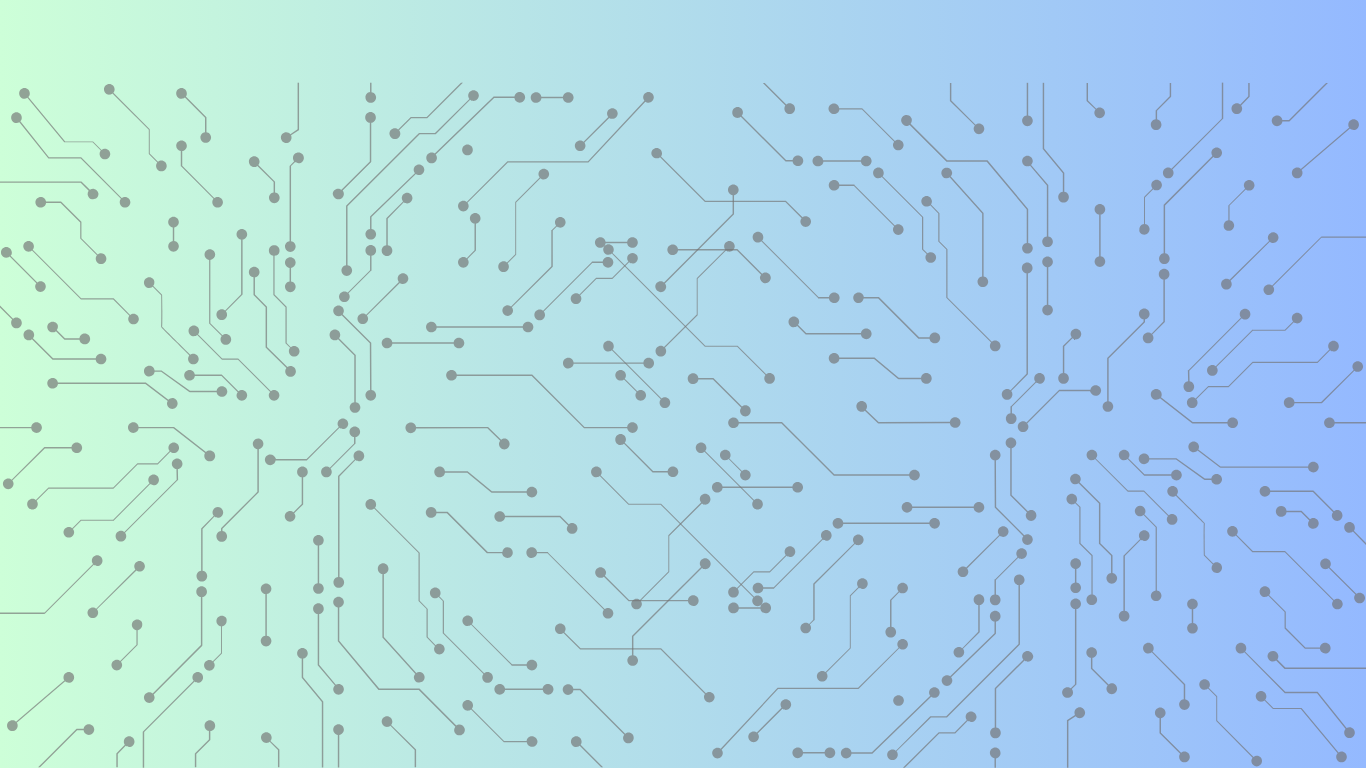
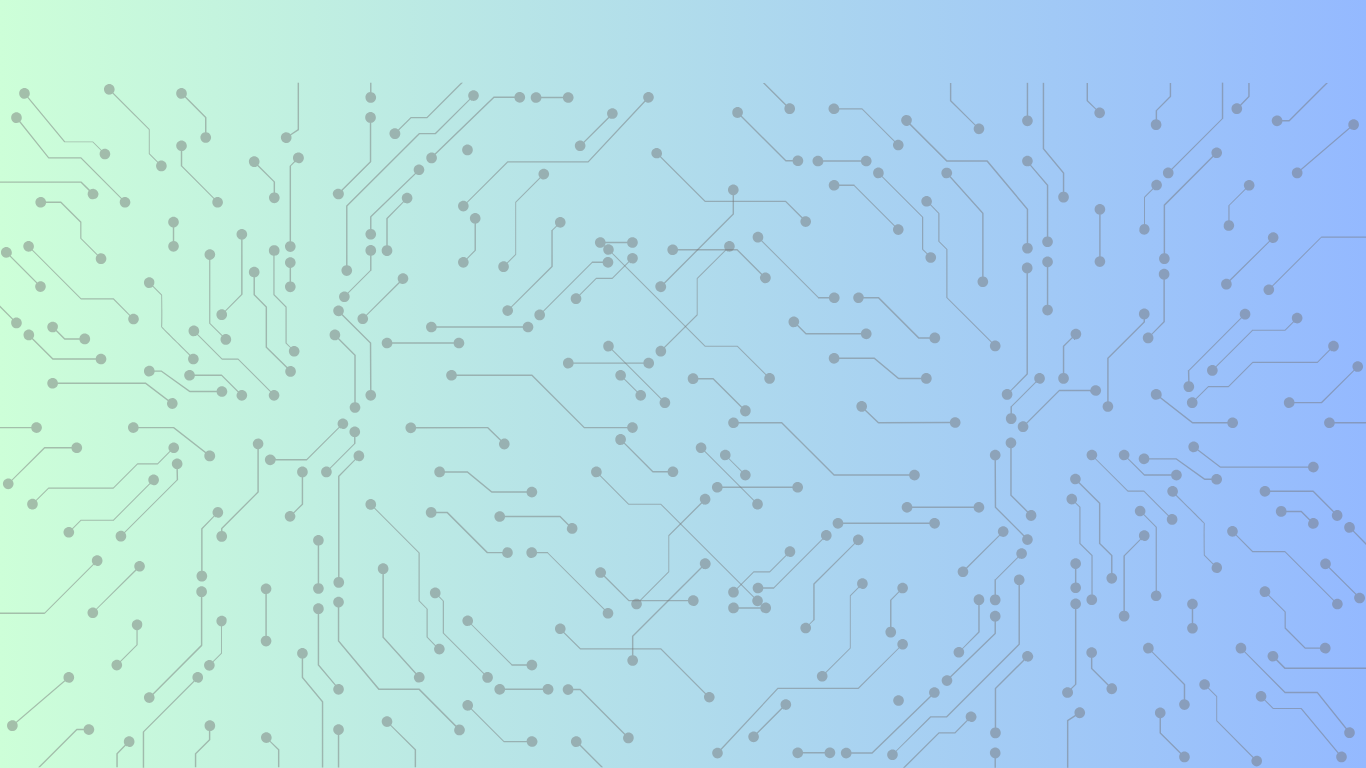
new background

diff --git a/src/app/page.tsx b/src/app/page.tsx
@@ -7,8 +7,9 @@ import missionpage from '@/app/Images/missionpage.png'
 
 function MyApp() {
   return (
-    <div className="container">
-      <div style={{ transform: 'translate(320px,100px)' }}>
+    <div className="container z-index-1000">
+      <div style={{ transform: 'translate(60px, 90px)' }}><h2 className="h2">See our creations and what inspires us</h2></div>
+      <div style={{ transform: 'translate(530px,100px)' }}>
         <Image src={missionpage} alt="Mission Page" width={500} height={300} />
       </div>
       <div style={{ display: 'flex', flexWrap: 'wrap', alignItems: 'center', justifyContent: 'center', transform: "translate(15px, 160px)" }}>
@@ -74,6 +75,11 @@ function MyApp() {
             <circle cx="351.5" cy="160.5" r="21.5"></circle>
           </svg>
         </a>
+      </div>
+
+      <div style={{ transform: 'translate(-250px, -275px)' }}>
+        <script src="https://static.elfsight.com/platform/platform.js" async></script>
+        <div className="elfsight-app-d1fc404b-4dbb-496c-a420-27e007bed2f8" data-elfsight-app-lazy></div>
       </div>
     </div>
   );

diff --git a/src/app/styles/globals.css b/src/app/styles/globals.css
@@ -12,7 +12,7 @@
 
 .h2 {
   font-family: 'Tekton Pro', sans-serif;
-  font-size: 50px;
+  font-size: 20px;
   text-align: justify;
   font-weight: 600;
   color: black;
@@ -89,4 +89,27 @@ li a:hover {
   bottom: unset;
 
 
+}
+
+@media only screen and (max-width:800px) {
+
+  /* For tablets: */
+  .main {
+    width: 80%;
+    padding: 0;
+  }
+
+  .right {
+    width: 100%;
+  }
+}
+
+@media only screen and (max-width:500px) {
+
+  /* For mobile phones: */
+  .menu,
+  .main,
+  .right {
+    width: 100%;
+  }
 }
